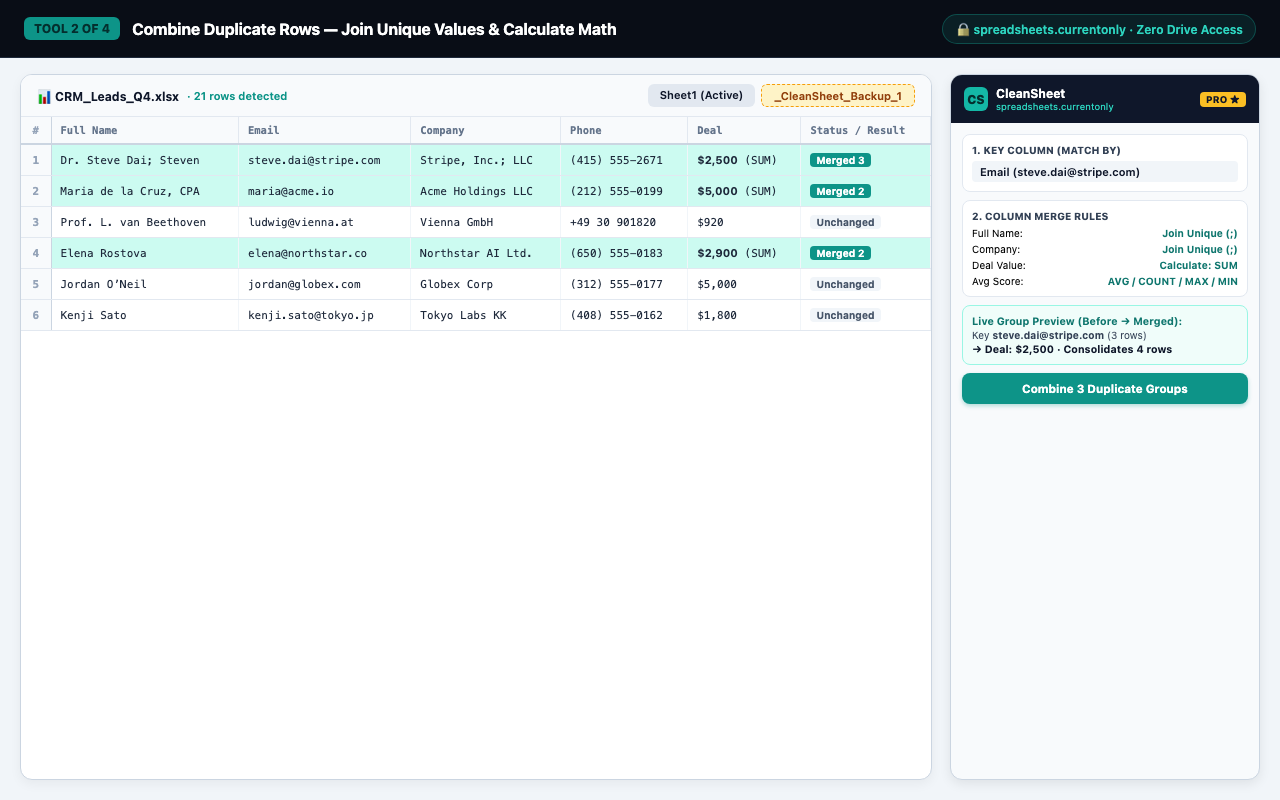
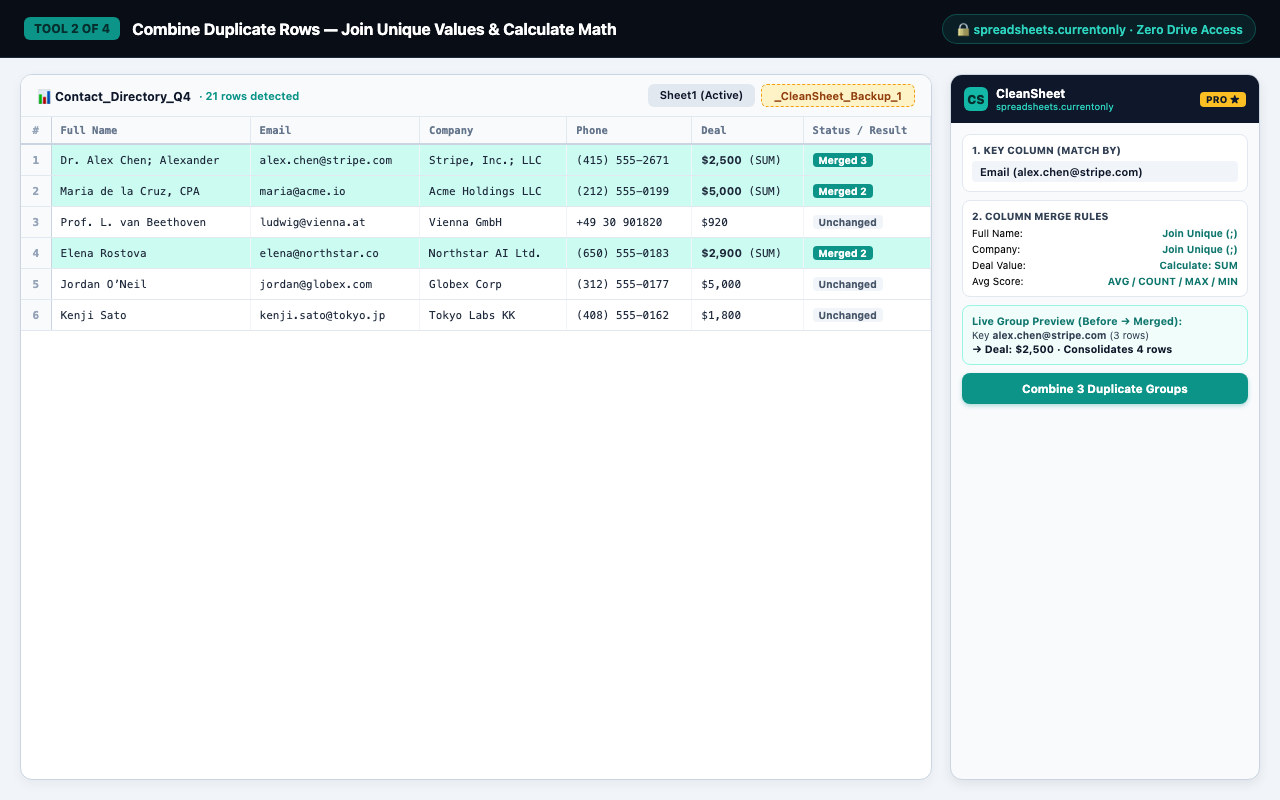
chore: refresh 5 screenshots with neutral Contact_Directory_Q4 sample data

diff --git a/index.html b/index.html
@@ -544,7 +544,7 @@
           <div class="faq-body">
             Open any Google Sheet, click <strong>Extensions &rarr; CleanSheet &rarr; Open CleanSheet Sidebar</strong> in
             the top menu bar, and choose from the 4 tools in the 300px right-hand sidebar (or click
-            <em>Load Sample CRM Dataset (10 Rows)</em> on the Home screen to test with sample data immediately).
+            <em>Load Sample Dataset (10 Rows)</em> on the Home screen to test with sample data immediately).
           </div>
         </details>
         <details>
